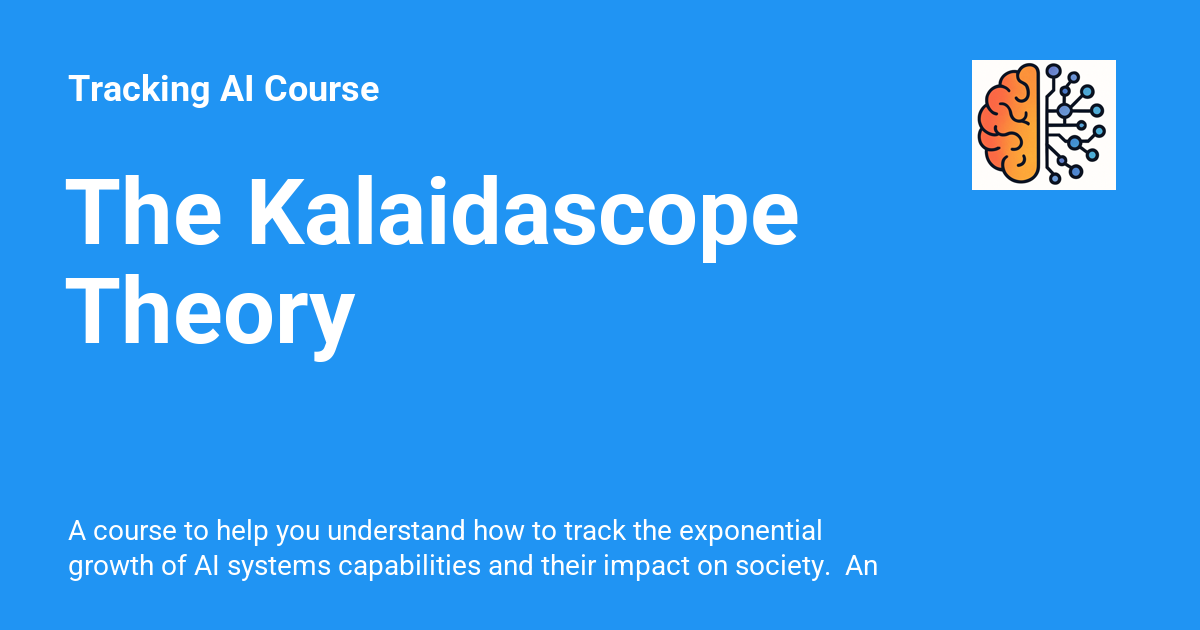
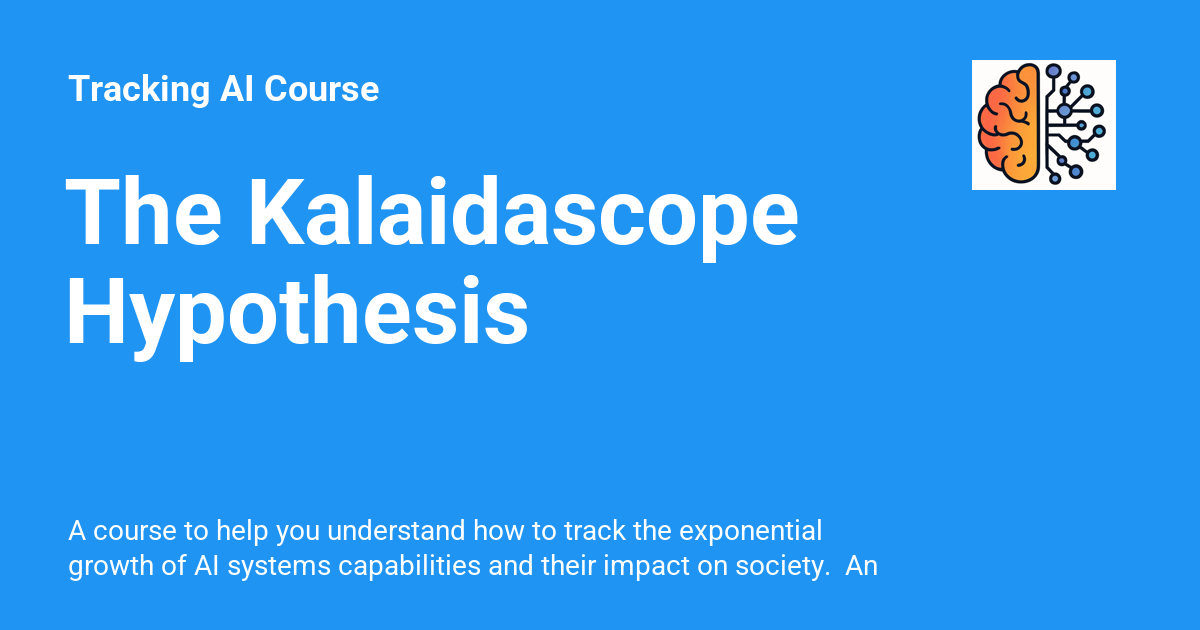
Deployed 0f3272d with MkDocs version: 1.6.1

Changed region(s): [[0.0308, 0.4222, 0.4625, 0.573]]

diff --git a/chapters/kalaidescope/index.html b/chapters/kalaidescope/index.html
@@ -26,7 +26,7 @@
     
     
       
-        <title>The Kalaidascope Theory - Tracking AI Course</title>
+        <title>The Kalaidascope Hypothesis - Tracking AI Course</title>
       
     
     
@@ -73,7 +73,7 @@
       
         <meta  property="og:type"  content="website" >
       
-        <meta  property="og:title"  content="The Kalaidascope Theory - Tracking AI Course" >
+        <meta  property="og:title"  content="The Kalaidascope Hypothesis - Tracking AI Course" >
       
         <meta  property="og:description"  content="A course to help you understand how to track the exponential growth of AI systems capabilities and their impact on society.  An analysis of the limitations of LLMs and the need for world models" >
       
@@ -89,7 +89,7 @@
       
         <meta  name="twitter:card"  content="summary_large_image" >
       
-        <meta  name="twitter:title"  content="The Kalaidascope Theory - Tracking AI Course" >
+        <meta  name="twitter:title"  content="The Kalaidascope Hypothesis - Tracking AI Course" >
       
         <meta  name="twitter:description"  content="A course to help you understand how to track the exponential growth of AI systems capabilities and their impact on society.  An analysis of the limitations of LLMs and the need for world models" >
       
@@ -149,7 +149,7 @@
         <div class="md-header__topic" data-md-component="header-topic">
           <span class="md-ellipsis">
             
-              The Kalaidascope Theory
+              The Kalaidascope Hypothesis
             
           </span>
         </div>
@@ -948,7 +948,7 @@
           
   
   <span class="md-ellipsis">
-    The Kalaidascope Theory
+    The Kalaidascope Hypothesis
   </span>
   
 
@@ -959,7 +959,7 @@
         
   
   <span class="md-ellipsis">
-    The Kalaidascope Theory
+    The Kalaidascope Hypothesis
   </span>
   
 

diff --git a/chapters/genai-coe/index.html b/chapters/genai-coe/index.html
@@ -939,7 +939,7 @@
         
   
   <span class="md-ellipsis">
-    The Kalaidascope Theory
+    The Kalaidascope Hypothesis
   </span>
   
 
@@ -1808,7 +1808,7 @@ Show a preview of the infographic on the right side of your canvas.
       <nav class="md-footer__inner md-grid" aria-label="Footer" >
         
           
-          <a href="../kalaidescope/" class="md-footer__link md-footer__link--prev" aria-label="Previous: The Kalaidascope Theory">
+          <a href="../kalaidescope/" class="md-footer__link md-footer__link--prev" aria-label="Previous: The Kalaidascope Hypothesis">
             <div class="md-footer__button md-icon">
               
               <svg xmlns="http://www.w3.org/2000/svg" viewBox="0 0 24 24"><path d="M20 11v2H8l5.5 5.5-1.42 1.42L4.16 12l7.92-7.92L13.5 5.5 8 11z"/></svg>
@@ -1818,7 +1818,7 @@ Show a preview of the infographic on the right side of your canvas.
                 Previous
               </span>
               <div class="md-ellipsis">
-                The Kalaidascope Theory
+                The Kalaidascope Hypothesis
               </div>
             </div>
           </a>

diff --git a/chapters/arc/index.html b/chapters/arc/index.html
@@ -1207,7 +1207,7 @@
         
   
   <span class="md-ellipsis">
-    The Kalaidascope Theory
+    The Kalaidascope Hypothesis
   </span>
   
 
@@ -2103,13 +2103,13 @@ ARC 2 Example</p>
         
         
           
-          <a href="../kalaidescope/" class="md-footer__link md-footer__link--next" aria-label="Next: The Kalaidascope Theory">
+          <a href="../kalaidescope/" class="md-footer__link md-footer__link--next" aria-label="Next: The Kalaidascope Hypothesis">
             <div class="md-footer__title">
               <span class="md-footer__direction">
                 Next
               </span>
               <div class="md-ellipsis">
-                The Kalaidascope Theory
+                The Kalaidascope Hypothesis
               </div>
             </div>
             <div class="md-footer__button md-icon">

diff --git a/chapters/agi-predicted-dates/index.html b/chapters/agi-predicted-dates/index.html
@@ -1021,7 +1021,7 @@
         
   
   <span class="md-ellipsis">
-    The Kalaidascope Theory
+    The Kalaidascope Hypothesis
   </span>
   
 

diff --git a/chapters/ai-hype-cycles/index.html b/chapters/ai-hype-cycles/index.html
@@ -1165,7 +1165,7 @@
         
   
   <span class="md-ellipsis">
-    The Kalaidascope Theory
+    The Kalaidascope Hypothesis
   </span>
   
 

diff --git a/chapters/current-state/index.html b/chapters/current-state/index.html
@@ -1117,7 +1117,7 @@
         
   
   <span class="md-ellipsis">
-    The Kalaidascope Theory
+    The Kalaidascope Hypothesis
   </span>
   
 

diff --git a/chapters/curriculum-learning/index.html b/chapters/curriculum-learning/index.html
@@ -1015,7 +1015,7 @@
         
   
   <span class="md-ellipsis">
-    The Kalaidascope Theory
+    The Kalaidascope Hypothesis
   </span>
   
 

diff --git a/chapters/healthbench/index.html b/chapters/healthbench/index.html
@@ -1015,7 +1015,7 @@
         
   
   <span class="md-ellipsis">
-    The Kalaidascope Theory
+    The Kalaidascope Hypothesis
   </span>
   
 

diff --git a/chapters/intelligence-vs-price/index.html b/chapters/intelligence-vs-price/index.html
@@ -1024,7 +1024,7 @@
         
   
   <span class="md-ellipsis">
-    The Kalaidascope Theory
+    The Kalaidascope Hypothesis
   </span>
   
 

diff --git a/chapters/lm-arena/index.html b/chapters/lm-arena/index.html
@@ -1024,7 +1024,7 @@
         
   
   <span class="md-ellipsis">
-    The Kalaidascope Theory
+    The Kalaidascope Hypothesis
   </span>
   
 

diff --git a/chapters/mmlu/index.html b/chapters/mmlu/index.html
@@ -1021,7 +1021,7 @@
         
   
   <span class="md-ellipsis">
-    The Kalaidascope Theory
+    The Kalaidascope Hypothesis
   </span>
   
 

diff --git a/chapters/number-of-models/index.html b/chapters/number-of-models/index.html
@@ -1006,7 +1006,7 @@
         
   
   <span class="md-ellipsis">
-    The Kalaidascope Theory
+    The Kalaidascope Hypothesis
   </span>
   
 
